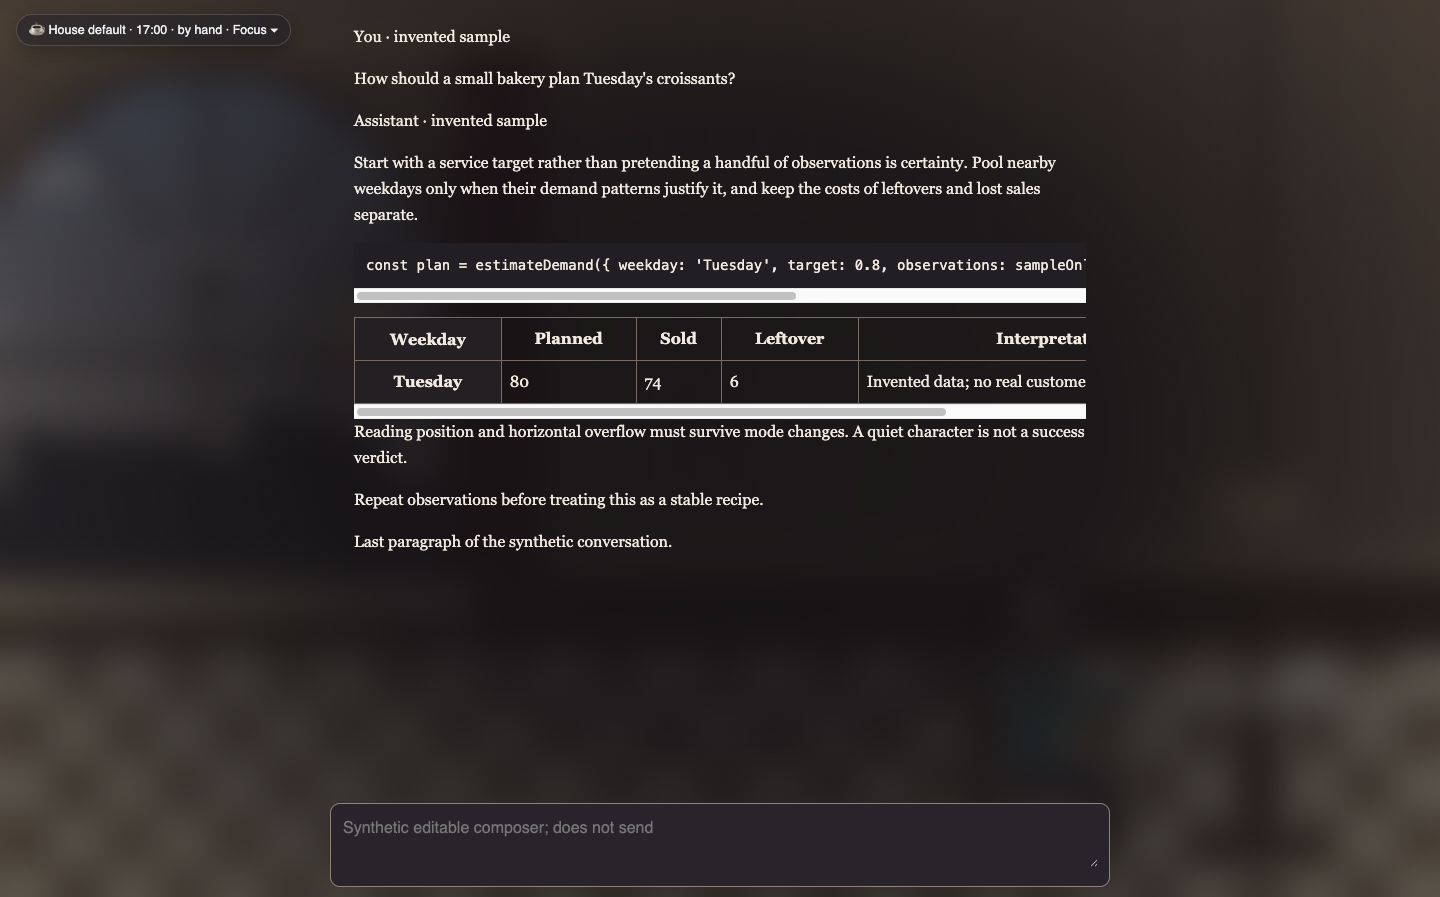
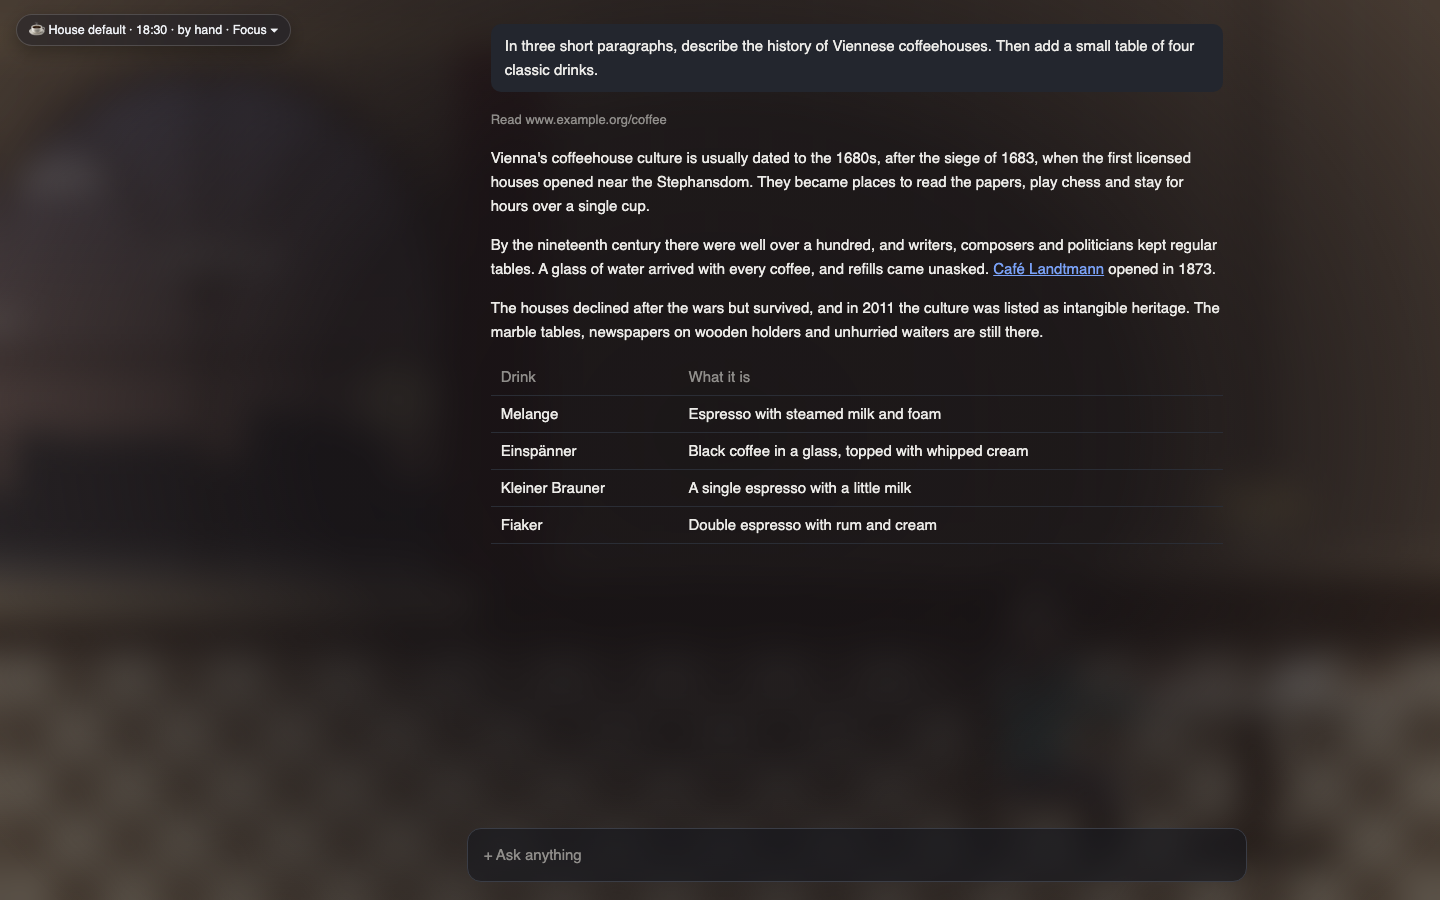
Kaffeehaus 0.2.0: docs, changelog, fixture screenshots, note-taker strip, fixture tool

diff --git a/tools/fixture/fixture.html b/tools/fixture/fixture.html
@@ -1,0 +1,32 @@
+<!doctype html><html><head><meta charset="utf-8"><title>Kaffeehaus fixture (NOT Hermes)</title>
+<script type="importmap">{"imports":{"@hermes/plugin-sdk":"./fake-sdk.js","react":"./fake-react.js"}}</script>
+<style>
+*{box-sizing:border-box}html,body{height:100%;margin:0}
+body{background:#14161c;color:#e8e6e3;font:15px/1.6 -apple-system,Helvetica,sans-serif;--ui-text-primary:#ecebe8;--ui-text-secondary:#c8c6c2;--ui-text-tertiary:#8f8d8a;--ui-stroke-secondary:#3a3d46;--ui-stroke-tertiary:#2a2d35;--ui-bg-chrome:#14161c;--ui-accent:#7aa2f7;--muted-foreground:#8f8d8a}
+[data-chat-surface]{--composer-width:780px;position:relative;display:flex;flex-direction:column;width:100vw;height:100vh;overflow:hidden;background:#14161c;color:var(--ui-text-primary)}
+[data-slot=composer-bounds]{position:relative;flex:1;min-height:0;overflow:hidden;background:#14161c}
+[data-slot=thread]{position:relative;height:100%;overflow:hidden}
+[data-slot=aui_thread-viewport]{height:100%;overflow:auto}
+[data-slot=aui_thread-content]{max-width:var(--composer-width);margin:0 auto;padding:24px 24px 160px}
+[data-slot=composer-dock]{position:absolute;bottom:18px;left:50%;transform:translateX(-50%);width:var(--composer-width);max-width:calc(100% - 32px)}
+.composer{border:1px solid var(--ui-stroke-secondary);border-radius:14px;padding:14px 16px;color:var(--ui-text-tertiary);background:rgba(20,22,28,.6)}
+.user{background:var(--ui-chat-bubble-background,#23262e);padding:10px 14px;border-radius:10px;margin-bottom:18px}
+.tool{color:var(--ui-text-tertiary);font-size:13px}
+table{border-collapse:collapse;width:100%;margin-top:8px}th{color:var(--muted-foreground);text-align:left;font-weight:500}th,td{border-bottom:1px solid var(--ui-stroke-tertiary);padding:6px 10px}
+a{color:var(--ui-accent)}
+</style></head><body>
+<div data-chat-surface>
+ <div data-slot="composer-bounds">
+  <div data-slot="thread"><div data-slot="aui_thread-viewport"><div data-slot="aui_thread-content">
+   <div class="user">In three short paragraphs, describe the history of Viennese coffeehouses. Then add a small table of four classic drinks.</div>
+   <p class="tool">Read www.example.org/coffee</p>
+   <p>Vienna's coffeehouse culture is usually dated to the 1680s, after the siege of 1683, when the first licensed houses opened near the Stephansdom. They became places to read the papers, play chess and stay for hours over a single cup.</p>
+   <p>By the nineteenth century there were well over a hundred, and writers, composers and politicians kept regular tables. A glass of water arrived with every coffee, and refills came unasked. <a href="#">Café Landtmann</a> opened in 1873.</p>
+   <p>The houses declined after the wars but survived, and in 2011 the culture was listed as intangible heritage. The marble tables, newspapers on wooden holders and unhurried waiters are still there.</p>
+   <table><tr><th>Drink</th><th>What it is</th></tr><tr><td>Melange</td><td>Espresso with steamed milk and foam</td></tr><tr><td>Einspänner</td><td>Black coffee in a glass, topped with whipped cream</td></tr><tr><td>Kleiner Brauner</td><td>A single espresso with a little milk</td></tr><tr><td>Fiaker</td><td>Double espresso with rum and cream</td></tr></table>
+  </div></div></div>
+  <div data-slot="composer-dock"><div class="composer">+ Ask anything</div></div>
+ </div>
+</div>
+<script type="module" src="./run.js"></script>
+</body></html>

diff --git a/tools/fixture/run.js b/tools/fixture/run.js
@@ -1,0 +1,26 @@
+// Drives the real bundle (copied as plugin.js) through a scenario from the query string:
+// ?seat=window|focus|classic&hour=15&open=1&busy=1&wait=1500
+import plugin from './plugin.js';
+const q = new URLSearchParams(location.search), regs = [];
+const ctx = { register: c => regs.push(c), onDispose() {}, setInterval: (f, ms) => { const id = setInterval(f, ms); return () => clearInterval(id); },
+  addEventListener: (t, type, fn) => { t.addEventListener(type, fn); return () => t.removeEventListener(type, fn); } };
+plugin.register(ctx);
+window.__busy = q.get('busy') === '1';
+const toggle = regs.find(r => r.id === 'toggle');
+toggle.data.run();
+const $ = s => document.querySelector(s);
+const step = ms => new Promise(r => setTimeout(r, ms));
+(async () => {
+  await step(300);
+  const openCard = () => { const b = $('[data-kaffeehaus-ui=board]'); const p = $('[data-kaffeehaus-ui=pill]'); (b && b.style.display !== 'none' ? b : p).click(); };
+  const seat = q.get('seat') || 'window';
+  if (q.get('hour')) { openCard(); const h = document.querySelector('[data-kaffeehaus-ui^=panel-][style*="display: block"] input[aria-label=Hour]'); h.value = q.get('hour'); h.dispatchEvent(new Event('input')); openCard(); }
+  await step(200);
+  if (seat !== 'window') { openCard(); document.querySelector(`[data-kaffeehaus-ui^=panel-][style*="display: block"] [data-mode=${seat}]`).click(); }
+  await step(700);
+  const open = !!document.querySelector('[data-kaffeehaus-ui^=panel-][style*="display: block"]');
+  if (q.get('open') === '1' && !open) openCard();
+  if (q.get('open') !== '1' && open) openCard();
+  await step(Number(q.get('wait') || 1200));
+  document.title = 'ready';
+})();

diff --git a/tools/fixture/fake-sdk.js b/tools/fixture/fake-sdk.js
@@ -1,0 +1,4 @@
+// Stand-in for @hermes/plugin-sdk: only what Kaffeehaus touches.
+const atom = get => ({ get });
+export const host = { state: { busy: atom(() => !!window.__busy), awaitingResponse: atom(() => !!window.__awaiting) } };
+export function createBudgetedLoop(fn, { fps = 4 } = {}) { const id = setInterval(fn, 1000 / fps); return { dispose: () => clearInterval(id) }; }

diff --git a/tools/fixture/fake-react.js b/tools/fixture/fake-react.js
@@ -1,0 +1,1 @@
+export const createElement = () => null; export const useEffect = () => {}; export const useRef = () => ({ current: null });

diff --git a/README.md b/README.md
@@ -2,17 +2,25 @@
 
 A pixel café that lives behind your [Hermes Desktop](https://github.com/NousResearch/hermes-agent) chat and follows your local time. Morning light comes in through the window, dusk turns it orange, and at night the lamp comes on and the stars come out.
 
-Choose between two seats:
+Choose a seat:
 
 - **Window Seat:** the room sits beside your chat, sharp and in full view.
 - **Focus:** the chat is centred and the room is blurred behind it, so you get the atmosphere without the detail.
-- **Classic:** no room. The Kaffeehaus palette and type (espresso, oxblood, cream, serif prose) over Hermes's normal layout. The pill stays, so you can step back into the café.
+- **Classic:** no room. The Kaffeehaus palette and type (espresso, oxblood, cream, serif prose) over Hermes's normal layout.
 
-| Window Seat | Focus |
-|---|---|
-| ![Window Seat](media/window-seat-fixture.png) | ![Focus](media/focus-fixture.png) |
+| Window Seat | Focus | Classic |
+|---|---|---|
+| ![Window Seat](media/window-seat-fixture.png) | ![Focus](media/focus-fixture.png) | ![Classic](media/classic-fixture.png) |
 
-<sub>These screenshots come from the test harness, with an invented chat. They are not screenshots of Hermes Desktop.</sub>
+<sub>These screenshots come from a test page with an invented chat, running the real plugin. They are not screenshots of Hermes Desktop.</sub>
+
+## The note-taker
+
+Someone sits at the café table with a notebook. They write while Hermes is working, look up when the first words of the answer arrive, then close the notebook and take a sip when the turn ends. Late at night they doze off, and after one in the morning they may get out a sleeping bag. People walk past the window during the day.
+
+![The note-taker](media/note-taker.png)
+
+The note-taker only knows *whether* Hermes is working (two on/off signals from the plugin SDK, the same ones the status bar uses) and the time. It never sees what you or Hermes write.
 
 ## Install
 
@@ -22,36 +30,44 @@ You need Hermes Desktop 0.23.1 or newer, on macOS. Only macOS has been tested.
 hermes plugins install Bonorinoa/hermes-kaffeehaus
 ```
 
-If you'd rather install by hand, copy `desktop/plugin.js` into a new folder `~/.hermes/desktop-plugins/hermes-kaffeehaus/` (that file is all Desktop needs).
+If you'd rather install by hand, copy `desktop/plugin.js` into a new folder `~/.hermes/desktop-plugins/hermes-kaffeehaus/` (that file is all Desktop needs). To update: `hermes plugins update hermes-kaffeehaus`, then reload Hermes.
 
 The plugin installs **switched off**. To start it:
 
 1. In Hermes Desktop, open **Capabilities → Plugins** and turn **Kaffeehaus** on.
-2. Open the **Kaffeehaus** tab in the sidebar and click **Apply to one chat**.
+2. Open the chat you want, then open the **Kaffeehaus** tab in the sidebar and click **Open the café**. (Or press ⌘K and run **Kaffeehaus café**.)
+
+You can close the tab afterwards; the café keeps running. ⌘K → **Kaffeehaus: show the tab** brings it back.
 
 ## Use it
 
-- **The board and the pill:** in Window Seat a chalkboard, *Die Karte*, hangs on the café wall. In Focus a small glass pill sits in the corner. Click either one to change the seat, the hour, the look, or to pick a **house blend**: *Kleiner Schwarzer* (dark, reading first), *Melange* (balanced) or *Einspänner* (the room comes through). Press Esc to close.
-- **The sidebar tab** has the same controls, plus reading width, motion, **Peek at room** and **Off / restore**.
-- **Looks** are set per seat:
+Everything is changed from inside the café:
 
-  | Slider | What it changes |
-  |---|---|
-  | Scene blur | How blurred the room is |
-  | Scene brightness | How bright the room is |
-  | Text panel opacity | How solid the panel behind the text is |
-  | Glass blur | How frosted that panel is |
+- **Window Seat:** click the chalkboard on the wall, *Die Karte*. The menu opens over the chat, so the window stays in view while you change the hour.
+- **Focus and Classic:** click the ☕ pill in the top-left corner.
 
-  When Window Seat has to put text over the room in a narrow window, it keeps a minimum blur and dimming so the text stays readable.
-- **Reading width** is a maximum in Window Seat. The text narrows, but never below 360 px, so the room fits beside it.
+![Die Karte](media/die-karte-fixture.png)
+
+The card has the seat, the hour (or *Jetzt* to follow the clock), three **house blends** (*Kleiner Schwarzer*: dark, reading first; *Melange*: balanced; *Einspänner*: the room comes through), the look sliders for this seat, the reading width, motion, and **Peek** (the room on its own; Esc to come back). Tab moves through the card and Esc closes it.
+
+| Slider | What it changes |
+|---|---|
+| Scene blur | How blurred the room is |
+| Scene brightness | How bright the room is |
+| Text panel | How solid the panel behind the text is |
+| Glass | How frosted that panel is |
+
+When Window Seat has to put text over the room in a narrow window, it keeps a minimum blur and dimming so the text stays readable. Reading width is a maximum in Window Seat: the text narrows, but never below 360 px, so the room fits beside it.
+
+Switching seats eases the chat into place and fades the room across. With macOS **Reduce motion** on, everything switches instantly and the note-taker holds still.
 
 ## What it does and doesn't do
 
 - It runs entirely on your machine. There are no network requests, nothing is stored, and there is no telemetry or location lookup. The hour comes from your Mac's clock, and the sun and moon follow illustrative paths, not real astronomy.
-- It never reads your chats. The note-taker's poses are decorative and don't react to what you or the agent do.
-- It respects your system's Reduce Motion setting, and you can turn motion off yourself.
+- It never reads your chats. The note-taker reacts only to whether Hermes is working, not to what anyone wrote.
+- Motion is on by default. It respects your system's Reduce motion setting, and you can turn motion off on the card.
 - It works only with dark themes, including Glass. On light or unrecognised themes it refuses to start rather than make your text hard to read.
-- Settings reset when the app reloads; nothing is saved yet.
+- Settings are kept while the app runs (Off and back on returns to the same café) and reset when it reloads; nothing is saved to disk.
 
 ## ⚠ Experimental
 
@@ -65,20 +81,22 @@ There are no dependencies; you only need Node 20 or newer.
 
 ```sh
 node build.mjs            # src/ + art/ → desktop/plugin.js (one file; imports only the SDK and React)
-node --test               # 28 unit tests: clock, layout, looks, package rules
+node --test               # unit tests: clock, layout, looks, character, art, package rules
+tools/fixture/shoot.sh window "seat=window&hour=10&open=1"   # screenshot the real bundle on a stand-in chat page (needs Chrome)
 ```
 
 | Path | What it is |
 |---|---|
-| `art/kaffeehaus.js` | The café, drawn in code: `Kaffeehaus.draw(ctx, width, hour, frame, {wx, tx, state})`, 144 px tall |
+| `art/kaffeehaus.js` | The café and the note-taker, drawn in code: `Kaffeehaus.draw(ctx, width, hour, frame, {wx, tx, state, since})`, 144 px tall |
+| `src/character.mjs` | The note-taker's states: writing, looking up, wrap-up, doze, sleeping bag |
 | `src/scene-time.mjs` | Local civil time → scene hour |
 | `src/controller.mjs` | State: seat, width, clock, motion, looks, house blends |
-| `src/layout.mjs` | Geometry for both seats |
+| `src/layout.mjs` | Geometry for the seats |
 | `src/scene.mjs` | Mounts the canvas, veil and glass behind the chat, and restores everything on Off |
-| `src/overlay.mjs` | The menu board and the glass pill |
-| `src/controls.mjs` | The sidebar tab |
+| `src/overlay.mjs` | The menu board, the glass pill and the card they open |
+| `src/controls.mjs` | The plugin session and the sidebar launcher |
 
-Ideas that would fit: more rooms, more house blends, saving settings, light themes, and an official SDK hook so this can join the catalog. Issues and pull requests are welcome.
+Ideas that would fit: more rooms, more house blends, more people in the room, saving settings, light themes, and an official SDK hook so this can join the catalog. Issues and pull requests are welcome.
 
 ## Credits
 

diff --git a/CHANGELOG.md b/CHANGELOG.md
@@ -1,5 +1,16 @@
 # Changelog
 
+## 0.2.0 (2026-11-15)
+- **The note-taker comes alive.** They write while Hermes works, look up when the first words arrive, close the notebook and sip when the turn ends, doze after 23:00 and may bring out a sleeping bag after 01:00. Driven only by the SDK's public `host.state.busy` and `awaitingResponse` signals and the clock; no chat content is read.
+- **People walk past the window**, more by day, none in the small hours.
+- **One place for settings.** Everything (seat, hour, blends, look, reading width, motion, peek) is on the in-scene card. The sidebar tab is now a launcher: *Open the café* / *Off*.
+- **⌘K rows:** *Kaffeehaus café* (on/off) and *Kaffeehaus: show the tab*.
+- **Smoother:** seat changes ease the chat column and fade the room across; the card fades in. Reduced motion snaps.
+- **Motion is on by default** (still off under macOS Reduce motion).
+- **The card works from the keyboard:** Tab stays inside it, Esc closes it, focus rings in the house colours.
+- Brighter night room; Classic has brighter table headers and tool lines; the glass card is more opaque.
+- Settings survive Off → Open within a session (memory only, nothing written to disk).
+
 ## 0.1.2 (2026-11-15)
 - New seat, **Classic**: the Kaffeehaus palette and type (espresso ground, oxblood accent, cream and sand text, serif prose) over Hermes's own layout, with no room. The pill stays, so you can step back into the café.
 - Die Karte now opens over the chat column in Window Seat, so the window stays in view while you change the hour.
